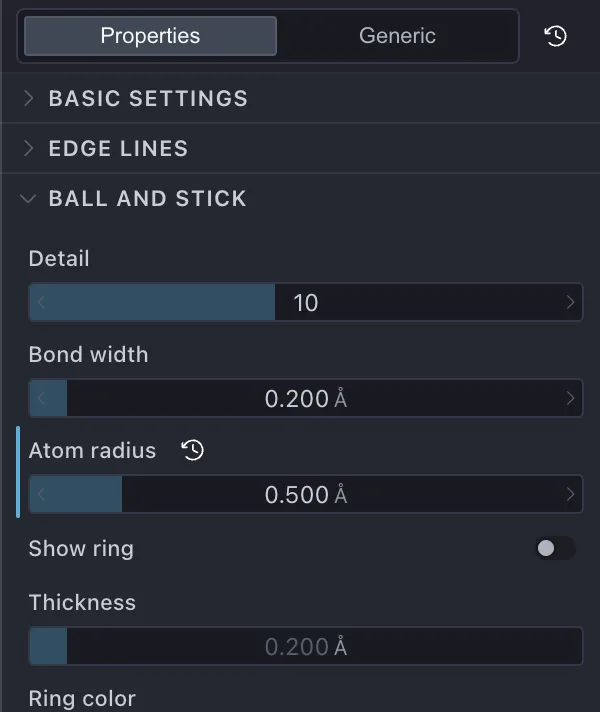
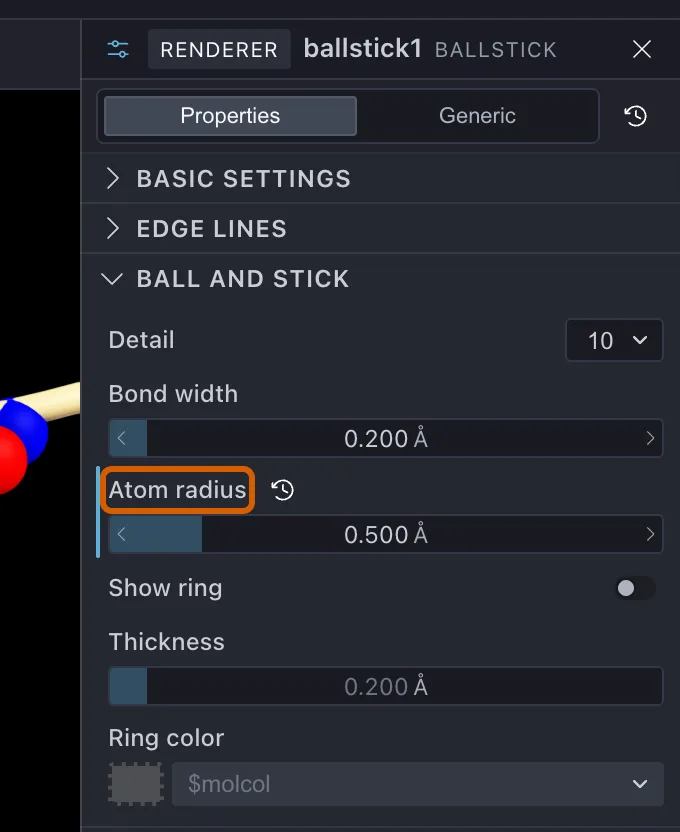
Capture widget screenshots in their surroundings with a highlight frame
Rows, buttons and selectors are now shot inside the side panel, the
toolbar or a margin of the window, with the operated widget framed, so
the reader can tell where it is. Dialogs and menus stay cropped. All
quick-tour and loading shots are retaken with 3.0.6.577.

diff --git a/docs-verify/specs/quick-tour.spec.ts b/docs-verify/specs/quick-tour.spec.ts
@@ -24,13 +24,14 @@ import {
     clickSceneToolbar,
     toggleRowVisibility,
     rowVisibilityToggle,
+    sceneRow,
 } from '../helpers/sceneTree';
 import { getPdb } from '../helpers/openFile';
 import { setNumericProperty } from '../helpers/inspector';
 import { selectColorTarget, chooseColoring, coloringButton } from '../helpers/colorPane';
 import { lastPopupLabels } from '../helpers/popupMenu';
 import { rotateView, zoomView } from '../helpers/molView';
-import { docShot } from '../helpers/docShot';
+import { aroundBox, docShot, sidebarRect, toolbarRect } from '../helpers/docShot';
 import { checkField, fieldControl } from '../helpers/form';
 
 const PDB_ID = '1CRN';
@@ -78,9 +79,11 @@ test.describe.serial('クイックツアー', { tag: '@net' }, () => {
 
     test('2. 構造を読み込む', async () => {
         // 「1. File > Get PDB... を選びます (ツールバーの Get PDB ボタンでも同じ)」
+        // The toolbar around the button, with the button framed.
+        const getPdbButton = harness.window.getByRole('button', { name: 'Get PDB', exact: true });
         await docShot(harness.window, 'getting-started/quick-tour/2-toolbar-getpdb', {
-            clip: harness.window.getByRole('button', { name: 'Get PDB', exact: true }),
-            pad: 6,
+            rect: await toolbarRect(harness.window, getPdbButton),
+            highlight: getPdbButton,
         });
         await getPdb(harness.app, harness.window, {
             // 「2. PDB or EMDB ID, or keywords に 1CRN と入力し、Download を押します」
@@ -126,7 +129,8 @@ test.describe.serial('クイックツアー', { tag: '@net' }, () => {
             // The right-click target: the scene tree with the object row.
             await selectRow(harness.window, OBJ_NAME);
             await docShot(harness.window, 'getting-started/quick-tour/3-scene-tree', {
-                clip: harness.window.locator('.sp-pane').first(),
+                rect: await sidebarRect(harness.window, harness.window.locator('.sp-pane').first(), 16),
+                highlight: sceneRow(harness.window, OBJ_NAME),
             });
             // 「二次構造がわかるように、ribbon を追加してみます。」
             await addRenderer('ribbon', 'ribbon1', { shotId: 'getting-started/quick-tour/3-new-renderer' });
@@ -173,7 +177,8 @@ test.describe.serial('クイックツアー', { tag: '@net' }, () => {
             await toggleRowVisibility(harness.window, 'simple1');
             await expect(rowVisibilityToggle(harness.window, 'simple1')).toHaveClass(/hidden/);
             await docShot(harness.window, 'getting-started/quick-tour/3-hide-simple', {
-                clip: harness.window.locator('.sp-pane').first(),
+                rect: await sidebarRect(harness.window, harness.window.locator('.sp-pane').first(), 16),
+                highlight: rowVisibilityToggle(harness.window, 'simple1'),
             });
         });
 
@@ -184,12 +189,11 @@ test.describe.serial('クイックツアー', { tag: '@net' }, () => {
             await setNumericProperty(harness.window, 'Ball and stick', 'Atom radius', 0.5);
             // The open "Ball and stick" section, top tab bar to last field.
             await docShot(harness.window, 'getting-started/quick-tour/3-inspector', {
-                clip: [
+                rect: await aroundBox(harness.window, [
                     harness.window.locator('.inspector-mode-bar'),
-                    harness.window.getByText('Atom radius', { exact: true }).last(),
                     harness.window.getByText('Ring color', { exact: true }).last(),
-                ],
-                pad: 0,
+                ], 40),
+                highlight: harness.window.getByText('Atom radius', { exact: true }).last(),
             });
         });
 
@@ -198,8 +202,8 @@ test.describe.serial('クイックツアー', { tag: '@net' }, () => {
             // the renderers' default colours reference it via $molcol.
             await selectColorTarget(harness.window, '1crn (object)');
             await docShot(harness.window, 'getting-started/quick-tour/3-color-target', {
-                clip: harness.window.locator('.color-shell-row').first(),
-                pad: 6,
+                rect: await sidebarRect(harness.window, harness.window.locator('.color-shell-row').first(), 120),
+                highlight: harness.window.locator('.color-shell-row select').first(),
             });
             // 「隣のボタンを押し、Rainbow coloring を選びます」. The menu is a
             // native macOS menu (answered by the popup-menu stub), so it has
@@ -255,17 +259,21 @@ test.describe.serial('クイックツアー', { tag: '@net' }, () => {
             await docShot(renderWindow, 'getting-started/quick-tour/4-rendering-window');
             // Just the operated controls; the bar's right half is empty and
             // the settings panel extends far below its last field.
+            const renderControls = [
+                renderWindow.getByRole('button', { name: 'Start Render', exact: true }),
+                renderWindow.locator('.render-panel-bar select').last(),
+            ];
             await docShot(renderWindow, 'getting-started/quick-tour/4-render-controls', {
-                clip: [
-                    renderWindow.getByRole('button', { name: 'Start Render', exact: true }),
-                    renderWindow.locator('.render-panel-bar select').last(),
-                ],
+                rect: await aroundBox(renderWindow, renderControls, 120),
+                highlight: renderControls,
             });
+            const renderSettings = [
+                renderWindow.locator('.render-window-settings-header'),
+                renderWindow.getByText('Transparent background', { exact: true }),
+            ];
             await docShot(renderWindow, 'getting-started/quick-tour/4-render-settings', {
-                clip: [
-                    renderWindow.locator('.render-window-settings-header'),
-                    renderWindow.getByText('Transparent background', { exact: true }),
-                ],
+                rect: await aroundBox(renderWindow, renderSettings, 80),
+                highlight: renderSettings,
             });
 
             if (process.env.E2E_SLOW) {

diff --git a/docs-verify/specs/basic/loading.spec.ts b/docs-verify/specs/basic/loading.spec.ts
@@ -19,7 +19,7 @@ import { assertDialogQueuesEmpty } from '../../helpers/dialogs';
 import { expectRow, sceneRow, sceneToolbarButtons } from '../../helpers/sceneTree';
 import { enterViewValue, setViewValue, viewPaneRowParts } from '../../helpers/viewPane';
 import { clickAtomNearCenter, rotateView, zoomView } from '../../helpers/molView';
-import { docShot } from '../../helpers/docShot';
+import { docShot, sidebarRect } from '../../helpers/docShot';
 import { fieldControl } from '../../helpers/form';
 import { showBottomTab } from '../../helpers/bottomPanel';
 
@@ -121,13 +121,16 @@ test.describe.serial('構造の読み込みと表示', { tag: '@net' }, () => {
         // 「3. Explorer > View パネルで Zoom の値をクリックし、40 と入力して Enter」
         // (Zoom は絶対値なので入力した値がそのまま残る)
         await setViewValue(harness.window, 'Zoom', 40);
+        // Shown inside the side panel, with the row framed, so the reader
+        // sees where the row is.
         await docShot(harness.window, `${SHOT}/2-view-zoom`, {
-            clip: viewPaneRowParts(harness.window, 'Zoom'),
-            pad: 0,
+            rect: await sidebarRect(harness.window, viewPaneRowParts(harness.window, 'Zoom')),
+            highlight: viewPaneRowParts(harness.window, 'Zoom'),
         });
         // The pane as a whole, for the paragraph about how its rows work.
         await docShot(harness.window, `${SHOT}/2-view-pane`, {
-            clip: harness.window.locator('.view-pane'),
+            rect: await sidebarRect(harness.window, harness.window.locator('.view-pane'), 16),
+            highlight: harness.window.locator('.view-pane'),
         });
 
         test.info().annotations.push({
@@ -172,7 +175,8 @@ test.describe.serial('構造の読み込みと表示', { tag: '@net' }, () => {
         // Header (it carries the Delete button the section mentions) down to
         // the last renderer row; Camera / Styles are not part of this section.
         await docShot(harness.window, `${SHOT}/5-scene-tree`, {
-            clip: [
+            rect: await sidebarRect(harness.window, harness.window.getByText('(*selection)').last(), 40),
+            highlight: [
                 harness.window.locator('.sp-pane').first().locator('.sp-section-header'),
                 harness.window.getByText('(*selection)').last(),
             ],

diff --git a/docs-verify/helpers/docShot.ts b/docs-verify/helpers/docShot.ts
@@ -87,6 +87,35 @@ export async function aroundBox(window: Page, targets: Locator | Locator[], marg
     return { x, y, width: x2 - x, height: y2 - y };
 }
 
+/**
+ * The left column (activity bar + side panel) from its top down to just
+ * below the widgets, so a pane row is shown inside the panel it lives in.
+ */
+export async function sidebarRect(window: Page, targets: Locator | Locator[], below = 80): Promise<Rect> {
+    const boxes = await boxesOf(Array.isArray(targets) ? targets : [targets]);
+    const panel = await window.locator('.side-panel').first().boundingBox();
+    const bar = await window.locator('.activity-bar').first().boundingBox();
+    if (!panel) throw new Error('[docShot] side panel not visible');
+    const vp = await viewport(window);
+    const x = bar ? Math.min(bar.x, panel.x) : panel.x;
+    const y = panel.y;
+    const x2 = panel.x + panel.width;
+    const y2 = Math.min(vp.h, Math.max(...boxes.map((b) => b.y + b.height)) + below);
+    return { x, y, width: x2 - x, height: y2 - y };
+}
+
+/**
+ * The toolbar from the window's left edge to a little past the button, so
+ * the button is shown among its neighbours.
+ */
+export async function toolbarRect(window: Page, button: Locator, right = 200): Promise<Rect> {
+    const [b] = await boxesOf([button]);
+    const bar = await window.locator('.app-toolbar').first().boundingBox();
+    if (!bar) throw new Error('[docShot] toolbar not visible');
+    const vp = await viewport(window);
+    return { x: 0, y: bar.y, width: Math.min(vp.w, b.x + b.width + right), height: bar.height };
+}
+
 async function boxesOf(locs: Locator[]): Promise<Rect[]> {
     const boxes: Rect[] = [];
     for (const c of locs) {

diff --git a/docs-verify/PLAYBOOK.md b/docs-verify/PLAYBOOK.md
@@ -196,11 +196,15 @@ spec が落ちたとき、原因が**ページの記述が実装と違うこと*
 
 | 対象 | 撮り方 | ページでの見せ方 |
 |---|---|---|
-| 順序付きリストの各ステップ | **操作対象の要素だけ**を切り抜き | ステップ直下に小さく |
+| ダイアログ・メニュー | そのダイアログ・メニューだけを切り抜き | ステップ直下 |
+| パネルの行・ボタン・セレクタなどの部品 | **周りを含めて**撮り、操作対象に枠を描く (下記) | ステップ直下 |
 | 節の始め・操作の結果 | ウィンドウ全景 | 本文中に幅いっぱい |
 
-手順の各ステップには、原則として操作対象の GUI 要素の切り抜きを付ける。
-全景を並べても、どこを操作するのか読者にはわからない。
+手順の各ステップには、原則として操作対象の GUI 要素の図を付ける。全景を並べても、
+どこを操作するのか読者にはわからない。一方で、**部品だけを切り抜くと、それがウィンドウの
+どこにあるのかがわからない** (ユーザー指摘)。部品の図は、それが置かれている場所
+(サイドパネルの列、ツールバー、ウィンドウの一角) ごと撮り、操作対象を `highlight` の
+枠 (Okabe-Ito の朱色) で示す。ダイアログとメニューは単体で意味が通じるので、切り抜きのままでよい。
 
 ### docShot の使い方
 
@@ -220,6 +224,27 @@ await docShot(harness.window, '.../2-toolbar-getpdb', {
 // 複数要素の外接矩形 (ボタンと開いたメニュー、パネルの先頭と末尾のフィールドなど)
 await docShot(harness.window, '.../3-coloring-menu', {
     clip: [window.getByRole('button', { name: 'Coloring' }), menu],
+});
+```
+
+部品を周りごと撮るときは、範囲を `rect` に、操作対象を `highlight` に渡す。範囲は
+次のヘルパーで決める。
+
+```ts
+// サイドパネルの行: アクティビティバー + サイドパネルの上端から、行の少し下まで
+await docShot(window, '.../2-view-zoom', {
+    rect: await sidebarRect(window, viewPaneRowParts(window, 'Zoom')),
+    highlight: viewPaneRowParts(window, 'Zoom'),
+});
+// ツールバーのボタン: ツールバーの左端からボタンの少し右まで
+await docShot(window, '.../2-toolbar-getpdb', {
+    rect: await toolbarRect(window, button),
+    highlight: button,
+});
+// それ以外 (インスペクタ、レンダリングウィンドウなど): 対象の周り margin px
+await docShot(window, '.../4-render-controls', {
+    rect: await aroundBox(window, controls, 120),
+    highlight: controls,
 });
 ```
 
@@ -317,6 +342,9 @@ task e2e            # 既定ウィンドウ (1600x1000) での回帰。撮影用
 | 数値プロパティが入力できない | DragNumericField。値表示をクリック → `role=spinbutton` に `fill` → Enter。`setNumericProperty()` を使う |
 | レンダリングウィンドウのボタンが見つからない | 別 BrowserWindow (`render.html`)。`app.windows()` を `expect.poll` で待って取得する |
 | `harness.app.process()` が `_object` で TypeError | `close()` 後は取得できない。close の**前**に `const proc = harness.app.process()` |
+| Open File Options などのフォームの欄が `#rend-type` などの id で見つからない | 3.0 系で id が無くなった。h3-kit の `Field` は label と欄が結び付いていないので、行のラベルで探す (`fieldControl(dlg, 'Renderer type')`)。チェックボックスは `checkField()` |
+| Color パネルの Coloring のボタンを押してもメニューが操作できない | macOS では pane のドロップダウンがネイティブメニュー (`popup-menu:show` の IPC)。harness がこれをスタブにしているので、`chooseColoring(app, window, ['Paint coloring', 'Okabe-Ito', 'Sky blue'])` のようにラベルの経路を渡す。ネイティブメニューは撮影できない |
+| 起動の時点で `READY_LINES` の待ちでタイムアウトする | アプリのログの文言が変わった。`DEBUG_E2E=1` で流してログを見て、`support/log.ts` の `READY_LINES` を直す (3.0.6.577 で `nodejs add-on` → `nodejs module`) |
 | シーンツリーの右クリックメニューが操作できない | native Menu なので Playwright からクリックできない。Scene パネルのツールバー Add ボタンが同じ New Renderer フローを開くので代替する (spec にその旨のコメントを残す) |
 | ネイティブの open/save ダイアログでハングする | `expectOpenDialog` / `expectSaveDialog` で応答をキューに積んでから操作する。積み忘れは即エラーになる |
 | 撮影サイズでしか通らない spec を書いてしまう | 座標依存の操作を書かない。最後に `task e2e` (1600x1000) で回帰確認する |

diff --git a/docs/en/getting-started/quick-tour.md b/docs/en/getting-started/quick-tour.md
@@ -20,7 +20,7 @@ For a structure whose PDB ID is known, **File &gt; Get PDB...** is the easiest w
 
 1. Choose **File &gt; Get PDB...** (the `Get PDB` toolbar button does the same)
 
-    ![Get PDB button on the toolbar](../../assets/images/getting-started/quick-tour/2-toolbar-getpdb.webp){ width="94" }
+    ![Get PDB button on the toolbar](../../assets/images/getting-started/quick-tour/2-toolbar-getpdb.webp){ width="640" .on-glb }
 
 2. Enter `1CRN` in **PDB or EMDB ID, or keywords** and press **Download**.
 
@@ -52,7 +52,7 @@ To show the secondary structure, add a **ribbon**.
 1. In the **Explorer &gt; Scene** tree (scene tree) in the left side panel, right-click the Object (`1crn`)
    and choose **New Renderer**.
 
-    ![Object row in the scene tree](../../assets/images/getting-started/quick-tour/3-scene-tree.webp){ width="237" .on-glb }
+    ![Object row in the scene tree](../../assets/images/getting-started/quick-tour/3-scene-tree.webp){ width="304" .on-glb }
 
 2. Choose **ribbon** from **Renderer type** and press **Create**.
 
@@ -86,7 +86,7 @@ The initial line drawing is no longer needed, so click the **eye icon** on the `
 of the scene tree to hide it. The eye icon toggles the visibility of each Renderer
 at any time.
 
-![Scene tree with simple1 hidden](../../assets/images/getting-started/quick-tour/3-hide-simple.webp){ width="237" .on-glb }
+![Scene tree with simple1 hidden](../../assets/images/getting-started/quick-tour/3-hide-simple.webp){ width="304" .on-glb }
 
 - When a type is chosen, a Renderer is **created immediately with default values**, and detailed settings are adjusted
   afterward in the inspector (for this policy, see [Changes in the interaction model](../changes/ui-paradigm.md))
@@ -100,7 +100,7 @@ on the right. Open the **Ball and stick** section and raise **Atom radius**
 The spheres become larger, giving a display that emphasizes the atoms. Changes to values are reflected
 in the molecular view immediately, and can be undone with ++cmd+z++ / ++ctrl+z++.
 
-![Ball and stick section of the property inspector](../../assets/images/getting-started/quick-tour/3-inspector.webp){ width="300" .on-glb }
+![Ball and stick section of the property inspector](../../assets/images/getting-started/quick-tour/3-inspector.webp){ width="340" .on-glb }
 
 ### Change the colors
 
@@ -111,7 +111,7 @@ Renderers that refer to it. Here, recolor the Object.
 
 1. Select `1crn (object)` at the top.
 
-    ![Target selection in the Color panel](../../assets/images/getting-started/quick-tour/3-color-target.webp){ width="233" }
+    ![Target selection in the Color panel](../../assets/images/getting-started/quick-tour/3-color-target.webp){ width="304" .on-glb }
 
 2. Press the adjacent **Coloring** button and choose **Rainbow coloring**.
 
@@ -155,11 +155,11 @@ in Still mode.
 
 1. Choose the target view (Target). The backend can stay at the default **Umbreon**.
 
-    ![Controls row in Still mode](../../assets/images/getting-started/quick-tour/4-render-controls.webp){ width="561" .on-glb }
+    ![Controls row in Still mode](../../assets/images/getting-started/quick-tour/4-render-controls.webp){ width="640" .on-glb }
 
 2. Set the quality and size
 
-    ![Render Settings panel](../../assets/images/getting-started/quick-tour/4-render-settings.webp){ width="307" .on-glb }
+    ![Render Settings panel](../../assets/images/getting-started/quick-tour/4-render-settings.webp){ width="379" .on-glb }
 
 3. Press **Start Render**. Progress is shown, and when it finishes the resulting image appears in the same window.
 

diff --git a/docs/en/tutorials/basic/loading.md b/docs/en/tutorials/basic/loading.md
@@ -94,7 +94,7 @@ Look at the loaded molecule from various directions.
 3. In the **Explorer &gt; View** panel in the left side panel, click the **Zoom** value under.
    **Zoom / Slab**, enter `40`, and press ++enter++. Zoom is set to 40.
 
-    ![Zoom in the View panel](../../../assets/images/tutorials/basic/loading/2-view-zoom.webp){ width="213" }
+    ![Zoom in the View panel](../../../assets/images/tutorials/basic/loading/2-view-zoom.webp){ width="304" .on-glb }
 
 Zoom is the height (Å) of the range shown in the molecular view. The smaller the value,
 the larger the molecule appears.
@@ -111,7 +111,7 @@ and the value returns to 0 after the operation. **Translation** (TraX / TraY / T
 **Zoom / Slab** (Zoom, Slab, Dist, Å) values are **absolute**: the values of the current view
 are displayed as they are.
 
-![View panel. Rotation has returned to 0 even after rotating, and Zoom keeps the entered 40](../../../assets/images/tutorials/basic/loading/2-view-pane.webp){ width="237" .on-glb }
+![View panel. Rotation has returned to 0 even after rotating, and Zoom keeps the entered 40](../../../assets/images/tutorials/basic/loading/2-view-pane.webp){ width="304" .on-glb }
 
 For the full list of operations, including translation and slab (the range displayed by clipping
 the near and far sides), see [Mouse and trackpad input](../../ui/mouse-input.md); for each
@@ -231,7 +231,7 @@ the list of Renderers attached to that Object. The current tree reads as follows
 
 Right-clicking the scene row lets you change the background color from **Background color**.
 
-![Scene tree (lysozyme / 1g59 and their Renderers)](../../../assets/images/tutorials/basic/loading/5-scene-tree.webp){ width="253" .on-glb }
+![Scene tree (lysozyme / 1g59 and their Renderers)](../../../assets/images/tutorials/basic/loading/5-scene-tree.webp){ width="304" .on-glb }
 
 ## Next steps
 
